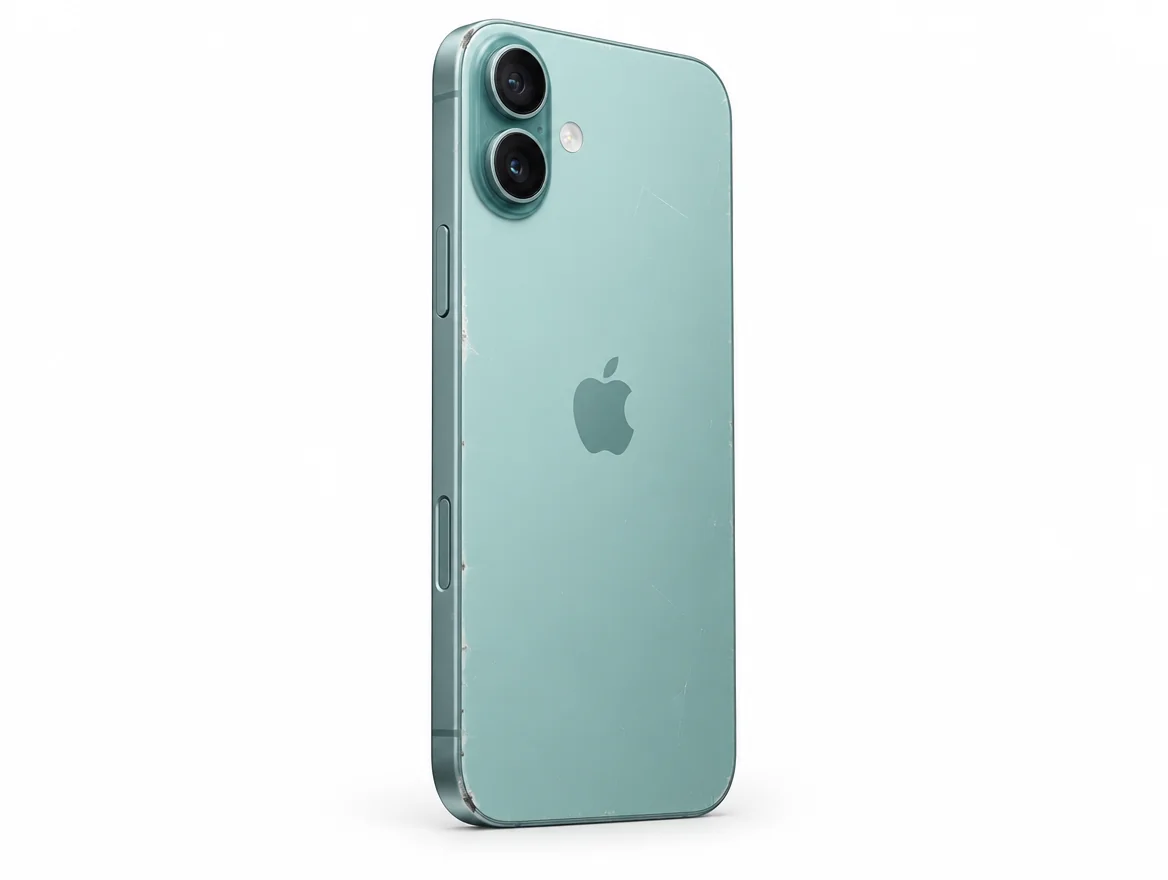
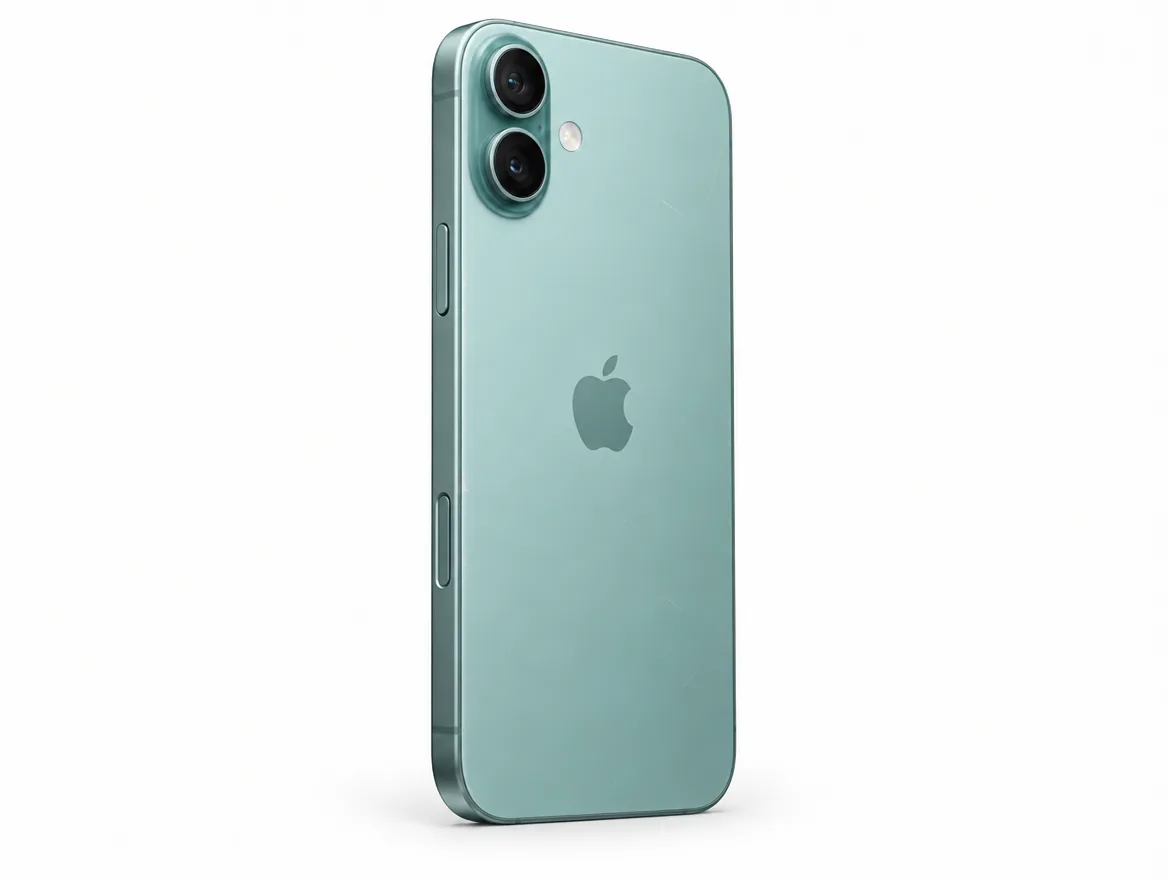
Stand C: mildere eksempelbilleder af iPhone (bagside og forside-par)
Ingen skår eller knuste hjørner, kun få lette ridser og små skrammer.
Markeringen "Lille bule i hjørnet" fjernet fra iPhone-bagsiden.

Claude-Session: https://claude.ai/code/session_018ycxeu1nSzDstyYfhrhnYE

diff --git a/src/components/product/condition-explainer.tsx b/src/components/product/condition-explainer.tsx
@@ -207,7 +207,7 @@ const MARKERS: Record<DeviceType, Record<"B" | "C", Record<ImageView, Marker[]>>
       display: [{ x: 58, y: 48, label: "Skærmen er fejlfri" }, { x: 29, y: 58, label: "Lette ridser i kanten" }],
     },
     C: {
-      frame: [{ x: 53, y: 30, label: "Lette ridser på bagsiden" }, { x: 38, y: 66, label: "Synlige skrammer i kanten" }, { x: 39, y: 92, label: "Lille bule i hjørnet" }],
+      frame: [{ x: 53, y: 30, label: "Lette ridser på bagsiden, ses i skråt lys" }, { x: 38, y: 66, label: "Små skrammer i kanten" }],
       display: [{ x: 55, y: 34, label: "Lette mikroridser på skærmen, ses kun i skråt lys" }, { x: 34, y: 56, label: "Skrammer i kanten" }],
     },
   },
